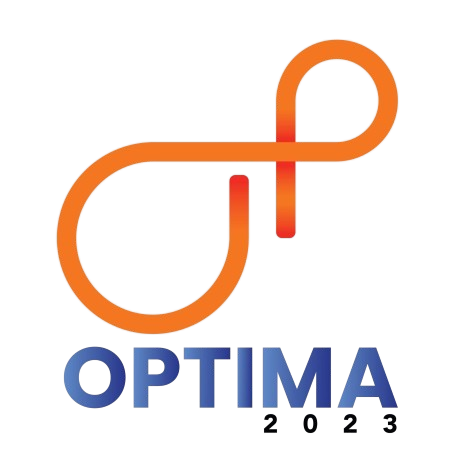
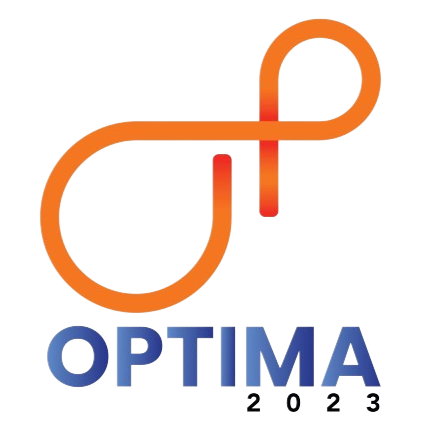
layout enhanced

Changed region(s): [[0.0909, 0.0303, 0.9091, 0.9697]]

diff --git a/src/components/About.jsx b/src/components/About.jsx
@@ -8,9 +8,7 @@ import Button from "./Button";
 const About = () => {
   return (
     <Section
-      className="pt-[6rem] -mt-[5.25rem]"
-      crossesOffset="lg:translate-y-[5.25rem]"
-      customPaddings
+      
       id="about"
     >
       <div className="container md:pb-10">
@@ -32,16 +30,16 @@ const About = () => {
                 />
               </div>
               <div className="relative z-1">
-                <div className="mb-10 -my-10 -mx-15 p-10">
+                <div className="mb-2 md:mb-5 lg:mb-8 -my-10 -mx-15 p-10">
                   <img
-                    className="w-[80%] mx-auto"
+                    className="w-[80%] mx-auto bg-gray-300 rounded-xl"
                     src="/assets/optima.png"
                     width={428}
                     height={326}
                     alt={"gdg"}
                   />
                 </div>
-                <h4 className="h4 mb-4">
+                <h4 className="h2 md:h4 mb-4">
                   Optima - IIT Kharagpur's Techno-Optimization Fest
                 </h4>
                 <p className="body-2 text-n-4 mb-8">
@@ -51,7 +49,7 @@ const About = () => {
                   point on technology-optimization synergy, Optima addresses
                   real-world challenges across sectors like supply chain
                   management, production line optimization, and more. The event,
-                  from 6th - 8th October 2023, offers a rich mix of
+                  from 6th - 8th October 2023, offered a rich mix of
                   competitions, workshops, seminars, and interactive sessions,
                   driving sustainable advancements, efficiencies, and
                   productivity.
@@ -81,16 +79,16 @@ const About = () => {
                 />
               </div>
               <div className="relative z-1">
-                <div className="mb-10 -my-10 -mx-15 p-10">
+                <div className="mb-2 md:mb-5 lg:mb-8 -my-10 -mx-15 p-10">
                   <img
-                    className="w-[80%] mx-auto"
+                    className="w-[80%] mx-auto bg-gray-300 rounded-xl"
                     src="/assets/ise.png"
                     width={628}
                     height={426}
                     alt={"gdg"}
                   />
                 </div>
-                <h4 className="h4 mb-4">
+                <h4 className="h2 md:h4 mb-4">
                   Department of Industrial and Systems Engineering - IIT
                   Kharagpur
                 </h4>

diff --git a/src/components/Footer.jsx b/src/components/Footer.jsx
@@ -167,7 +167,7 @@ const Footer = () => {
                     sumanta@optima.org.in
                   </a>
                 </div>
-                <div className="optima-footer-mail2">
+                {/* <div className="optima-footer-mail2">
                   <a
                     className="optima-footer-normal"
                     href={`mailto:suranjan.karmakar.iitkgp@gmail.com`}
@@ -184,12 +184,12 @@ const Footer = () => {
                     <FontAwesomeIcon icon={faEnvelope} beat />{" "}
                     suranjan.karmakar.iitkgp@gmail.com
                   </a>
-                </div>
+                </div> */}
               </div>
             </div>
           </div>
         </section>
-        <div className="optima-footer-copyright-claim text-center">
+        <div className="text-xs sm:text-sm md:text-md lg:text-lg text-gray-400 text-center">
           &copy; Optima 2025 | All Rights Reserved.
         </div>
       </footer>

diff --git a/src/components/Hero.jsx b/src/components/Hero.jsx
@@ -21,7 +21,7 @@ const Hero = () => {
 
         <div className="relative z-1 max-w-[62rem] mx-auto text-center mb-[3rem] md:mb-[4rem] lg:mb-[4.8rem]">
           <h1 className="h1 mb-6">
-            Welcome&nbsp;to&nbsp;
+            Welcome&nbsp;to
             {` `}
             <span className="inline-block relative">
               <span className="bg-gradient-to-r from-orange-500 to-red-600 text-transparent bg-clip-text">

diff --git a/src/components/Spons.jsx b/src/components/Spons.jsx
@@ -207,10 +207,6 @@ const Spons = () => {
 
   return (
     <Section
-      className="pt-[8rem] -mt-[5.25rem]"
-      // crossess
-      crossesOffset="lg:translate-y-[5.25rem]"
-      customPaddings
       id="spons"
     >
       <div className="relative z-10">

diff --git a/src/components/OptimaCss/Footer.css b/src/components/OptimaCss/Footer.css
@@ -129,12 +129,6 @@
     display: block;
 }
 
-.optima-footer-copyright-claim {
-    margin: 0px;
-    padding: 0px;
-    color: rgb(165, 164, 164);
-}
-
 @media (max-width: 970px) {
     #optima-footer {
         display: flex;
